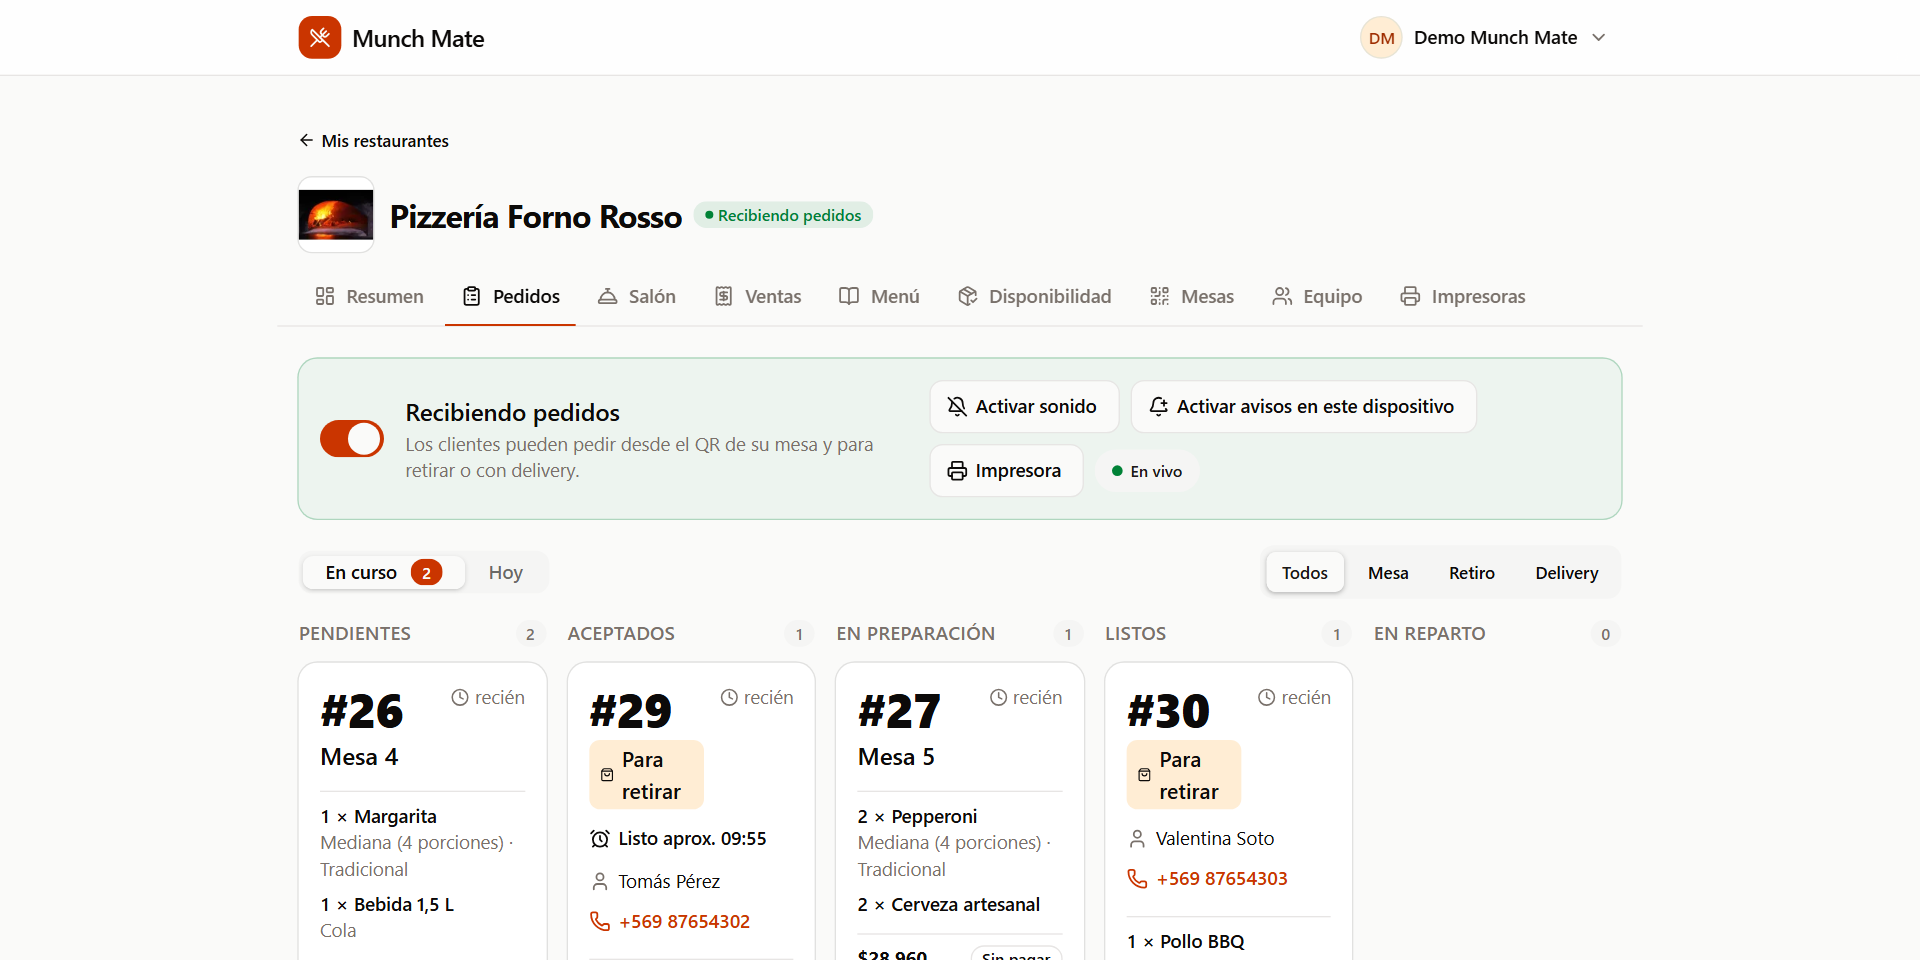
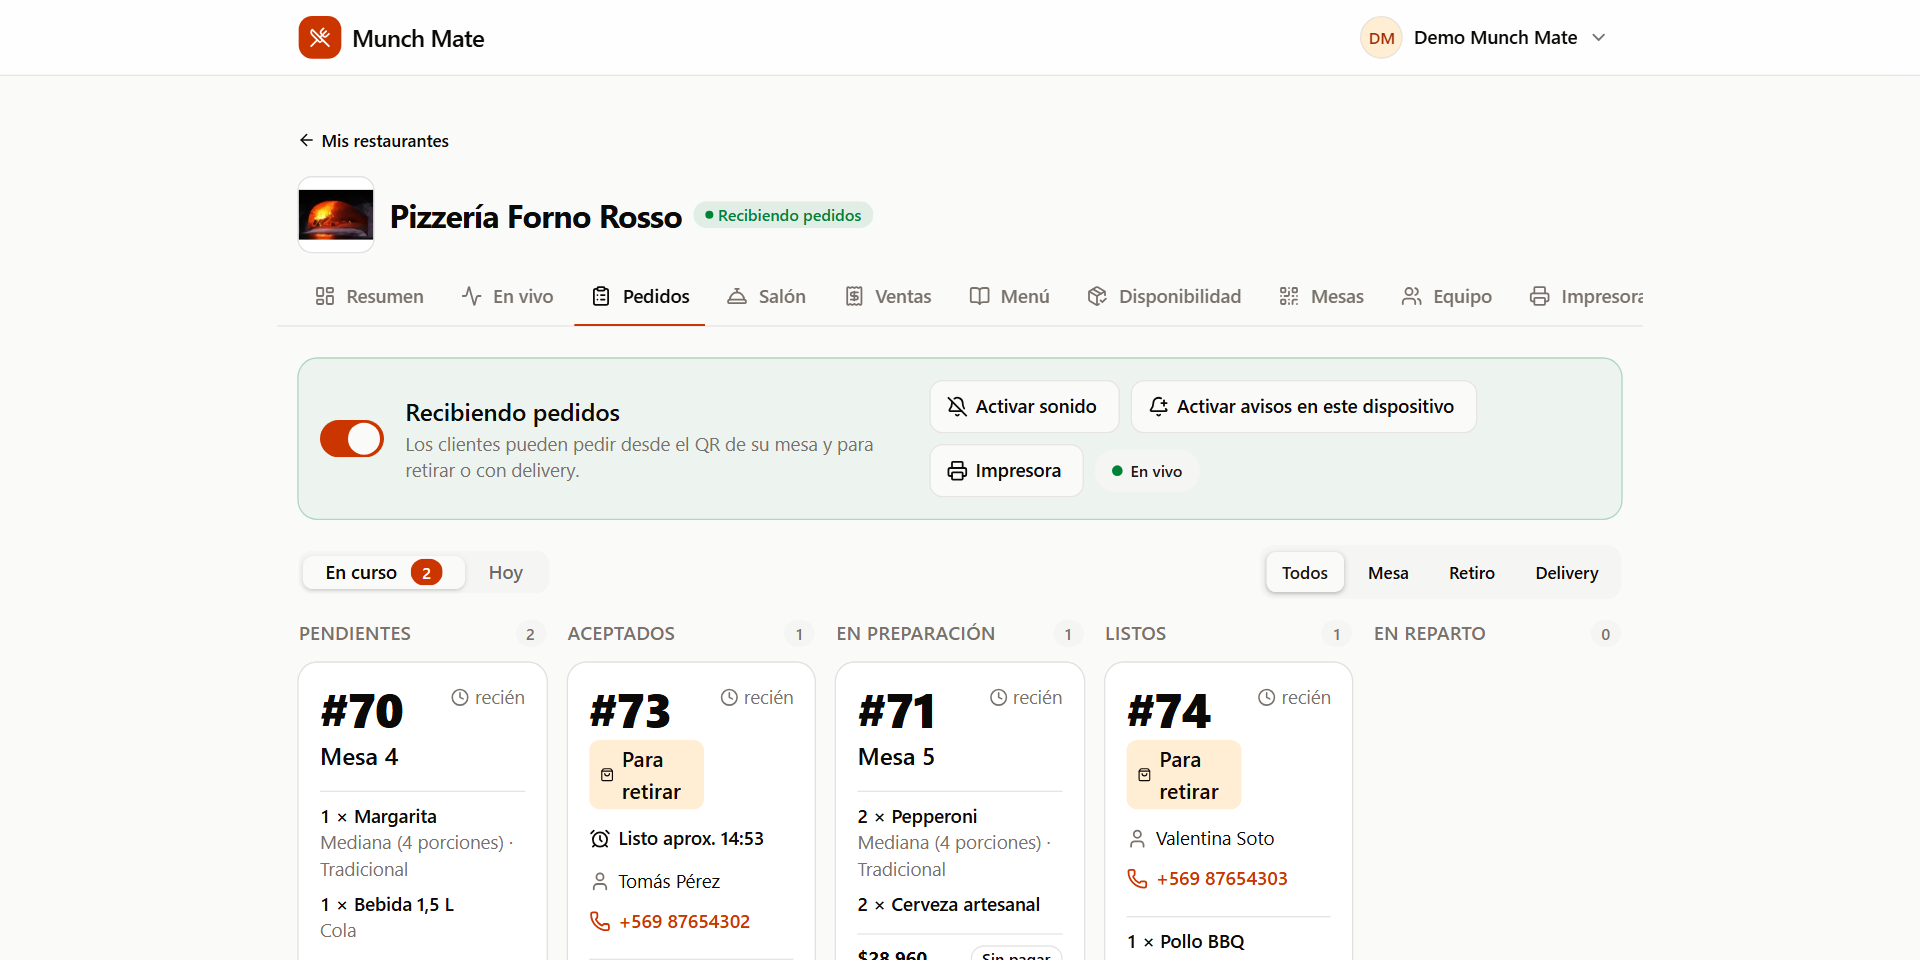
feat(demo): seed the pizzeria floor plan and capture the live view for the portfolio

diff --git a/apps/web/guide/portafolio.guide.ts b/apps/web/guide/portafolio.guide.ts
@@ -138,6 +138,45 @@ async function clearScene(owner: BrowserContext) {
   }
 }
 
+/** The demo floor plan (as `pnpm seed:demo` creates it) when the restaurant has none yet. */
+async function ensureFloorPlan(owner: BrowserContext) {
+  const base = `/api/restaurants/${restaurantId}`;
+  const view = (await send(owner, "get", `${base}/floor-plan`)) as { plan: unknown; tables: { id: string; active: boolean }[] };
+  if (view.plan) return;
+  const slots = [1, 3, 5].flatMap((y) => [1, 3, 5, 7].map((x) => ({ x, y })));
+  await send(owner, "put", `${base}/floor-plan`, {
+    plan: { cols: 14, rows: 9, kitchen: { x: 10, y: 0, w: 4, h: 3 }, pickup: { x: 11, y: 7, w: 3, h: 2 }, door: { x: 4, y: 8 } },
+    tables: view.tables.map((table, i) => ({
+      tableId: table.id,
+      layout: table.active && slots[i] ? { ...slots[i], shape: i % 3 === 0 ? "round" : "square", seats: 4 } : null,
+    })),
+  });
+}
+
+/** A delivery to Ñuñoa (pin inside the zone), dispatched: it shows as a scooter at the door and in the map card. */
+async function deliveryOnTheWay(owner: BrowserContext, guest: BrowserContext) {
+  const zones = (await send(guest, "get", `/api/public/restaurants/${SLUG}/delivery-zones`)) as { id: string; name: string }[];
+  const zone = zones.find((z) => z.name === "Ñuñoa") ?? zones[0];
+  if (!zone) return;
+  await send(guest, "post", `/api/public/restaurants/${SLUG}/delivery-orders`, {
+    clientOrderId: crypto.randomUUID(),
+    items: [item("Margarita", 2)],
+    customerName: "Martina Soto",
+    customerPhone: "+56 9 8765 4310",
+    delivery: { zoneId: zone.id, address: "Av. Italia 1234", unit: "Depto 402", location: { lat: -33.4575, lng: -70.6105 } },
+    payment: { method: "card_pos" },
+  });
+  const orders = (await send(owner, "get", `/api/restaurants/${restaurantId}/orders`)) as { id: string; customerName: string }[];
+  const order = orders.find((o) => o.customerName === "Martina Soto");
+  if (!order) return;
+  for (const status of ["accepted", "preparing", "ready", "out_for_delivery"]) {
+    await send(owner, "post", `/api/restaurants/${restaurantId}/orders/${order.id}/status`, {
+      status,
+      ...(status === "accepted" ? { readyInMinutes: 30 } : {}),
+    });
+  }
+}
+
 async function ownerContext(browser: Browser): Promise<BrowserContext> {
   const owner = await browser.newContext(DESKTOP);
   await send(owner, "post", "/api/auth/login", DEMO);
@@ -275,6 +314,58 @@ test("portafolio: pantallas de escritorio y funciones nuevas", async ({ browser 
     await waitForHydration(menuPage);
     await menuPage.waitForLoadState("networkidle");
     await menuPage.screenshot({ path: join(OUT, "m03-menu-publico.png") });
+
+    // ── Live floor view (phase 9) ──────────────────────────────────────────
+    // More life on the floor: a table eating, one asking for the bill, one calling the waiter, a new order and a
+    // delivery on its way, next to Mesa 6 paying in parts and the pickups already in the scene.
+    await ensureFloorPlan(owner);
+    await tableOrder(guest, "Mesa 1", [item("Pepperoni"), item("Cerveza artesanal", 2)]);
+    await advance(owner, (o) => o.tableLabel === "Mesa 1", "served");
+    const billTable = tables.find((t) => t.label === "Mesa 2")!;
+    await tableOrder(guest, "Mesa 2", [item("Cuatro quesos"), item("Pan de ajo")]);
+    await advance(owner, (o) => o.tableLabel === "Mesa 2", "served");
+    await send(guest, "post", `/api/public/tables/${billTable.token}/request-bill`, { tip: { kind: "suggested" } });
+    const callTable = tables.find((t) => t.label === "Mesa 3")!;
+    await tableOrder(guest, "Mesa 3", [item("Margarita")]);
+    await send(guest, "post", `/api/public/tables/${callTable.token}/call-waiter`);
+    await tableOrder(guest, "Mesa 7", [item("Pollo BBQ"), item("Cerveza artesanal")]);
+    await deliveryOnTheWay(owner, guest);
+
+    const live = await owner.newPage();
+    await live.setViewportSize({ width: 1920, height: 960 });
+    await live.goto(`/admin/${restaurantId}/en-vivo`);
+    await waitForHydration(live);
+    await expect(live.getByTestId("live-table").first()).toBeVisible();
+    const stage = live.getByRole("region", { name: /Plano en vivo/ }).or(live.locator('[aria-label^="Plano en vivo"]')).first();
+    const top = async () => {
+      await stage.evaluate((element) => window.scrollTo(0, element.getBoundingClientRect().top + window.scrollY - 24));
+      await live.waitForTimeout(2_500); // map tiles and the scene's entrance
+    };
+    await top();
+    await live.screenshot({ path: join(OUT, "d12-en-vivo.png") });
+    await live.locator('[data-testid="live-table"][data-label="Mesa 6"]').click();
+    await top();
+    await live.screenshot({ path: join(OUT, "d13-en-vivo-mesa.png") });
+    // By keyboard: the kitchen's centre may sit under the counters in front of it.
+    await live.locator('[data-testid="live-kitchen"]').first().focus();
+    await live.keyboard.press("Enter");
+    await top();
+    await live.screenshot({ path: join(OUT, "d14-en-vivo-cocina.png") });
+
+    const editor = await owner.newPage();
+    await editor.setViewportSize({ width: 1440, height: 720 });
+    await editor.goto(`/admin/${restaurantId}/mesas/plano`);
+    await waitForHydration(editor);
+    await expect(editor.getByTestId("floor-grid")).toBeVisible();
+    await editor.getByTestId("floor-grid").evaluate((element) => window.scrollTo(0, element.getBoundingClientRect().top + window.scrollY - 150));
+    await shot(editor, "d15-plano");
+
+    const livePhone = await phone.newPage();
+    await livePhone.context().request.post("/api/auth/login", { data: DEMO, headers: ORIGIN_HEADER });
+    await livePhone.goto(`/admin/${restaurantId}/en-vivo`);
+    await waitForHydration(livePhone);
+    await livePhone.waitForTimeout(1_500);
+    await livePhone.screenshot({ path: join(OUT, "m04-en-vivo-celular.png") });
   } finally {
     await owner.close();
     await guest.close();

diff --git a/apps/web/app/(session)/admin/[restaurantId]/en-vivo/live-view.tsx b/apps/web/app/(session)/admin/[restaurantId]/en-vivo/live-view.tsx
@@ -10,7 +10,7 @@ import { LiveScene, type SceneData, type SceneTooltip } from "@/components/live-
 import { DetailPanel, type DetailContext, GLASS, KpiCards, LiveStatus, TableLegend, TrackingStrip, WorkQueue } from "@/components/live-floor/panels";
 import { RidersCard } from "@/components/live-floor/riders-card";
 import { ZoneLists } from "@/components/live-floor/zone-lists";
-import { Button } from "@/components/ui/button";
+import { Button, buttonVariants } from "@/components/ui/button";
 import { Sheet, SheetContent, SheetDescription, SheetHeader, SheetTitle } from "@/components/ui/sheet";
 import { Skeleton } from "@/components/ui/skeleton";
 import { useMapConfig } from "@/hooks/use-map-config";
@@ -411,6 +411,13 @@ function LiveFloor() {
       </div>
       <div className="flex flex-wrap items-center gap-3">
         {wide && model.layout.dining ? <TableLegend /> : null}
+        {/* The plan can be changed as often as needed: without a plan the notice below links to the editor. */}
+        {isOwner && model.layout.hasPlan ? (
+          <Link href={planHref} className={buttonVariants({ variant: "outline", size: "sm" })} data-testid="edit-floor-plan">
+            <PencilRulerIcon aria-hidden data-icon="inline-start" />
+            Editar plano
+          </Link>
+        ) : null}
         <LiveStatus status={status} now={now} />
       </div>
     </div>

diff --git a/README.md b/README.md
@@ -1,6 +1,6 @@
 # Munch Mate
 
-Plataforma SaaS multi-restaurante para pedidos por **QR en la mesa**, **retiro** y **delivery**, con tablero de cocina en vivo, seguimiento del pedido en tiempo real, cuentas de cliente con notificaciones push, **mapas propios** para las zonas de reparto y el seguimiento del repartidor, y el **salón**: garzones, cuenta de mesa con propina que se puede **dividir** (por partes, productos o montos), pedidos que el personal puede **modificar** antes de cocinarlos, descuentos, comandas y comprobantes que salen solos por la **impresora térmica** (agente para Windows), ventas exportables y avisos por WhatsApp o SMS.
+Plataforma SaaS multi-restaurante para pedidos por **QR en la mesa**, **retiro** y **delivery**, con tablero de cocina en vivo, una **vista en vivo del local** en isométrico (mesas, cocina, retiro y repartos sobre el plano que dibuja el dueño), seguimiento del pedido en tiempo real, cuentas de cliente con notificaciones push, **mapas propios** para las zonas de reparto y el seguimiento del repartidor, y el **salón**: garzones, cuenta de mesa con propina que se puede **dividir** (por partes, productos o montos), pedidos que el personal puede **modificar** antes de cocinarlos, descuentos, comandas y comprobantes que salen solos por la **impresora térmica** (agente para Windows), ventas exportables y avisos por WhatsApp o SMS.
 
 - Qué hace el producto: [README-PRODUCT.md](README-PRODUCT.md)
 - Alcance, modelo de datos y hoja de ruta: [docs/PRODUCT.md](docs/PRODUCT.md)
@@ -38,16 +38,16 @@ flowchart LR
     direction LR
     s16["16 pnpm seed:demo"] --> s17["17 platform:admin"] --> s18["18 Mesa"] --> s19["19 Tablero"] --> s20["20 Modificar un pedido"] --> s21["21 Retiro"] --> s22["22 Delivery y seguimiento"]
     s22 --> s23["23 Cuenta de cliente y push"] --> s24["24 Cuenta de mesa y garzón"] --> s25["25 Dividir la cuenta"] --> s26["26 Descuentos"] --> s27["27 Comandas desde el navegador"]
-    s27 --> s28["28 Impresora de cocina (agente)"] --> s29["29 WhatsApp o SMS"] --> s30["30 Ventas, horario y exportar"] --> s31["31 Plataforma"] --> s32["32 pnpm stack:down"]
+    s27 --> s28["28 Impresora de cocina (agente)"] --> s29["29 WhatsApp o SMS"] --> s30["30 Ventas, horario y exportar"] --> s31["31 Vista en vivo y plano"] --> s32["32 Plataforma"] --> s33["33 pnpm stack:down"]
   end
   A --> B --> C --> D --> E
 ```
 
 | Recorrido | Pasos |
 | --- | --- |
-| **Primera vez** | 1 → 32 |
-| **Después de un cambio** | 2 · 6 · 7 · 8 · 9 · 10 · 11 · 14 · 15 · 32 |
-| **Solo mostrar la demo** | 11 · 13 · 16 → 32, o todo de una vez: 🐚 `pnpm demo:reset` (borra y recarga) / `pnpm demo:load` (conserva los datos) |
+| **Primera vez** | 1 → 33 |
+| **Después de un cambio** | 2 · 6 · 7 · 8 · 9 · 10 · 11 · 14 · 15 · 33 |
+| **Solo mostrar la demo** | 11 · 13 · 16 → 33, o todo de una vez: 🐚 `pnpm demo:reset` (borra y recarga) / `pnpm demo:load` (conserva los datos) |
 | **Probar la impresora de cocina** | 11 · 16 · 28 y [configurar el computador de cocina](#computador-de-cocina-agente-de-impresión) |
 | **Cargar datos a mano** | [ver más abajo](#ingreso-manual-de-datos) |
 | **Desarrollo diario** | [ver más abajo](#desarrollo-diario) |
@@ -219,7 +219,7 @@ Playwright maneja un Chromium móvil contra `https://localhost`: cuentas, menú,
 pnpm seed:demo
 ```
 
-Crea 3 locales con menú, fotos (todos los productos y logos), mesas, retiro, ubicación en el mapa y zonas de delivery dibujadas, y la cuenta del repartidor (`repartidor@munchmate.local`, misma contraseña) invitada a los locales con delivery, usando la API como lo haría un usuario. Imprime un link `/m/…` para pedir desde una mesa de cada local. Se puede repetir: lo que ya existe no se duplica y solo sube las fotos que faltan. Las fotos se descargan una vez en `.demo-cache/`.
+Crea 3 locales con menú, fotos (todos los productos y logos), mesas, retiro, ubicación en el mapa y zonas de delivery dibujadas, la cuenta del repartidor (`repartidor@munchmate.local`, misma contraseña) invitada a los locales con delivery y el plano del local de la Pizzería para la vista En vivo (los otros dos quedan sin plano a propósito: así se ve la vista solo con cocina, retiro y delivery), usando la API como lo haría un usuario. Imprime un link `/m/…` para pedir desde una mesa de cada local. Se puede repetir: lo que ya existe no se duplica y solo sube las fotos que faltan. Las fotos se descargan una vez en `.demo-cache/`.
 
 **Todo de una vez** (Git Bash 🐚): `pnpm demo:reset` borra los datos del stack (pide escribir `BORRAR`) y deja la demo lista: levanta el stack, hace que Windows confíe en su certificado (`pnpm cert:trust`), inicializa Garage, sube el mapa, carga los locales con sus fotos y te da el rol de administrador de plataforma (pasos 11, 12, 13, 16 y 17). `pnpm demo:load` hace lo mismo sin borrar nada. Agrega `--no-map` para omitir el mapa (`pnpm demo:reset --no-map`) o `--yes` para no confirmar.
 
@@ -236,7 +236,7 @@ pnpm platform:admin --revoke demo@munchmate.local   # para quitarlo
 </details>
 
 <details>
-<summary><b>18–31. Probar cada rol</b></summary>
+<summary><b>18–32. Probar cada rol</b></summary>
 
 | # | Rol | Qué hacer | Deberías ver |
 | --- | --- | --- | --- |
@@ -253,11 +253,12 @@ pnpm platform:admin --revoke demo@munchmate.local   # para quitarlo
 | 28 | Dueño y cocina | **Impresora de cocina sin diálogo**: sigue [Computador de cocina](#computador-de-cocina-agente-de-impresión) (vincular el agente, activar la impresora, imprimir prueba) y haz un pedido | La comanda sale sola por la impresora (o como archivo `.bin` con la impresora de pruebas); el tablero dice «Las comandas salen por la impresora de cocina»; cada pago imprime su comprobante |
 | 29 | Cliente online | En la Pizzería pide para retiro marcando **Avísame por WhatsApp** con un celular. Acepta el pedido en el panel | El aviso llega a [Mailpit](http://localhost:8025) como un correo a `569…@whatsapp.mensajes.local` |
 | 30 | Dueño / caja | **Ventas** → **Día** (y **Excel · Pedidos/Productos/Por día**), **Rango y exportar** para cualquier periodo, **Imprimir**. En **Resumen** activa **Usar horario** con un tramo que deje el local cerrado | Totales, propinas y descuentos, medios de pago que cuadran con las cuentas divididas; se descarga un CSV que abre Excel; el menú dice «Cerrado ahora · Abre … a las HH:MM» |
-| 31 | Platform admin | Menú del usuario → **Plataforma**, suspende un local y luego reactívalo | Suspendido: su menú público desaparece y el panel queda en solo lectura |
+| 31 | Dueño / caja | **En vivo**: el local en isométrico. Toca una mesa, la cocina, el mesón de retiro, la puerta o un reparto para ver su detalle. Con pedidos activos (pasos 18–25) las mesas cambian de color y aparecen los pines de «llamó al garzón» y «pidió la cuenta». **Editar plano** (dueño) abre **Mesas → Plano del local**: arrastra mesas, cambia su forma y puestos, mueve o redimensiona la cocina y el retiro, mueve la puerta por el borde y **Guardar plano** (cuantas veces quieras); ahí también está la **Meta de cocina**. Abre la Sanguchería o el Café: sin plano no hay salón, y el Café (sin delivery) no tiene puerta | Las comandas flotan sobre la cocina por estado con su cronómetro (ámbar sobre la meta); los indicadores de ventas, pedidos, tiempo de cocina y mesas se actualizan solos; en el celular se ve como lista por zonas |
+| 32 | Platform admin | Menú del usuario → **Plataforma**, suspende un local y luego reactívalo | Suspendido: su menú público desaparece y el panel queda en solo lectura |
 </details>
 
 <details>
-<summary><b>32. Apagar</b> — <code>pnpm stack:down</code></summary>
+<summary><b>33. Apagar</b> — <code>pnpm stack:down</code></summary>
 
 ```bash
 pnpm stack:down
@@ -287,6 +288,7 @@ Para cargar un restaurante propio desde cero, sin `seed:demo`. Todo se hace desd
 | 11 | **Resumen** → Delivery | En cada zona, **Dibujar en el mapa**: toca los vértices del área y **Guardar área**. Las zonas sin dibujo se eligen por nombre | — |
 | 12 | **Resumen** → Horario de atención | **Usar horario**, hasta 2 tramos por día, **Copiar el lunes a todos los días**, **Guardar horario** (opcional) | 12:00–15:30 y 19:00–23:30 |
 | 13 | **Equipo** → Invitar a alguien | Correo y roles (Caja, Cocina, Garzón, Repartidor), **Enviar invitación**. La persona acepta desde el correo | `cocina@local.test` · Cocina |
+| 13b | **Mesas** → **Plano del local** | **Crear plano** (arma uno con tus mesas acomodadas), ajusta mesas, cocina, retiro y puerta, y **Guardar plano**. Fija la **Meta de cocina**. Sin plano, la vista **En vivo** muestra solo la cocina | 14 × 9 · meta 20 min |
 | 14 | **Resumen** → Salón y propina | **Propina sugerida** en % (0 = sin sugerencia). Se ofrece al pedir la cuenta desde la mesa | 10 % |
 | 15 | **Resumen** → Avisos por WhatsApp o SMS | **Avisar a los clientes por mensaje**, canal y **Número de envío** del local (registrado en la cuenta de mensajería) | WhatsApp · +569 55550101 |
 | 16 | **Pedidos** → **Impresora** | Impresión desde el navegador, por dispositivo: papel y **Imprimir comandas solas**; **Imprimir prueba**. Úsala solo si no instalas el agente (fila siguiente) | 80 mm · cada pedido nuevo |
@@ -374,6 +376,8 @@ Regenera [docs/capturas/delivery](docs/capturas/delivery/README.md): un recorrid
 | Mailpit (emails y avisos WhatsApp/SMS) | <http://localhost:8025> | <http://localhost:8025> |
 | Plataforma | <https://localhost/plataforma> | <http://localhost:3100/plataforma> |
 | Salón (mesas) | <https://localhost/admin> → **Salón** | <http://localhost:3100/admin> → **Salón** |
+| Vista en vivo del local | <https://localhost/admin> → **En vivo** | <http://localhost:3100/admin> → **En vivo** |
+| Plano del local | <https://localhost/admin> → **Mesas** → **Plano del local** | <http://localhost:3100/admin> → **Mesas** → **Plano del local** |
 | Impresoras (agente) | <https://localhost/admin> → **Impresoras** | <http://localhost:3100/admin> → **Impresoras** |
 | Tickets de la impresora de pruebas | `%TEMP%\munchmate-tickets` | `%TEMP%\munchmate-tickets` |
 | Estado del mapa | <https://localhost/api/public/map-config> | <http://localhost:3000/api/public/map-config> |

diff --git a/CLAUDE.MD b/CLAUDE.MD
@@ -575,7 +575,7 @@ pnpm smoke               # infra/scripts/smoke.sh against https://localhost
 pnpm maps:init          # self-hosted map of Chile into Garage (Docker + ~hundreds of MB download; cached in .maps-cache/)
 pnpm push:keys          # VAPID keys for web push into .env (only when empty; rotating breaks existing subscriptions)
 pnpm platform:admin <email>   # grant the platform admin role to an existing account (--revoke to remove)
-pnpm seed:demo           # 3 demo restaurants with full menus, photos, tables, locations and delivery zones drawn on the map (demo@munchmate.local / "munchmate demo 2026") + the rider repartidor@munchmate.local; idempotent
+pnpm seed:demo           # 3 demo restaurants with full menus, photos, tables, locations and delivery zones drawn on the map (demo@munchmate.local / "munchmate demo 2026") + the rider repartidor@munchmate.local + the Pizzería's floor plan (only when it has none; the other two stay without a plan on purpose); idempotent
 pnpm cert:trust          # exports Caddy's local root CA to .local-ca/caddy-root.crt and (Windows) trusts it for the current user: photos from media.localhost load, no "No es seguro"; NODE_EXTRA_CA_CERTS for Node tools
 pnpm demo:reset          # sh: wipes the data volumes, keeping Caddy's CA (asks to type BORRAR; --yes skips it), then stack:up, cert:trust, stack:init, maps:init, seed:demo, platform:admin; --no-map skips the map
 pnpm demo:load           # same without wiping (fills what is missing)
